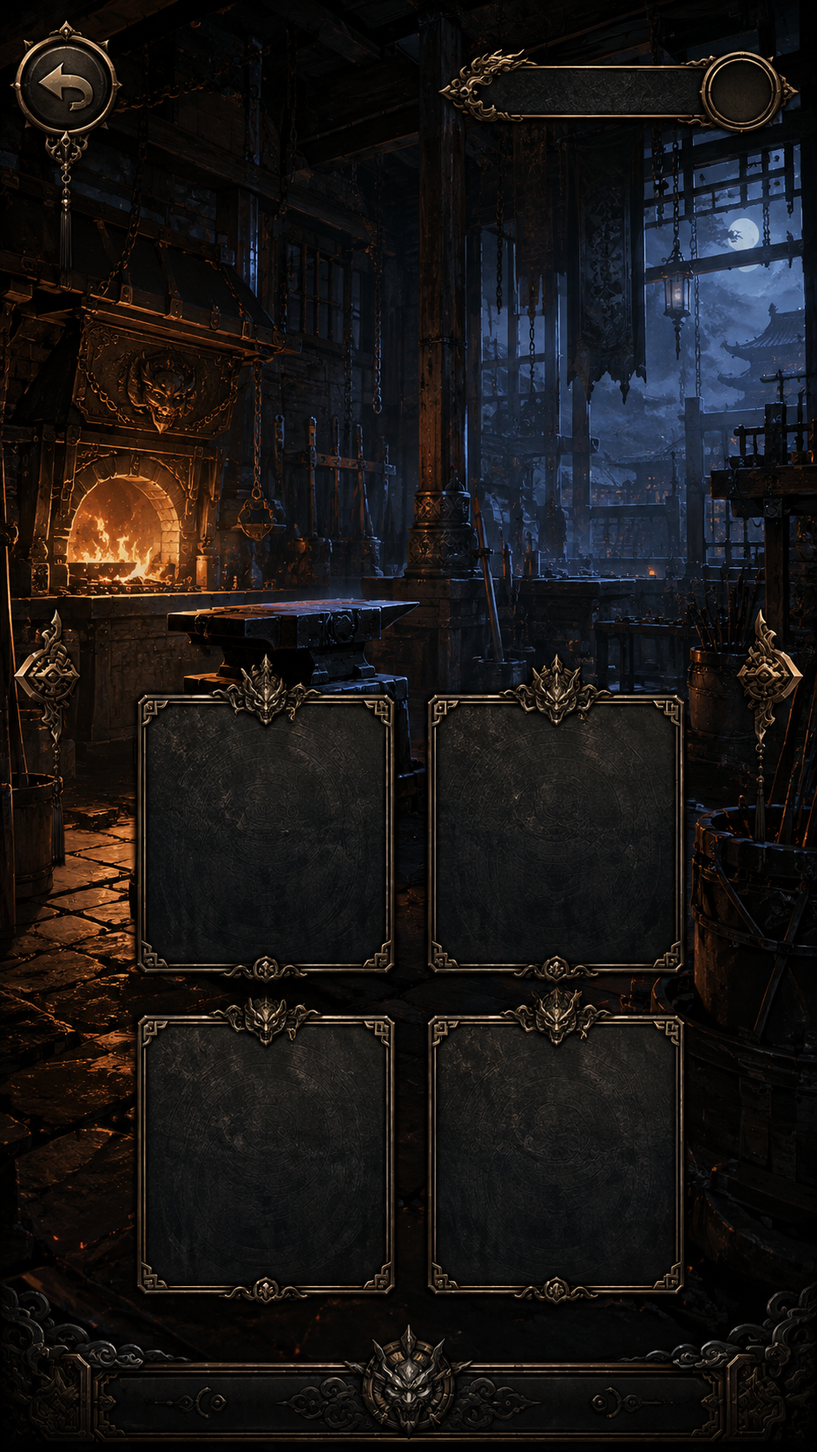
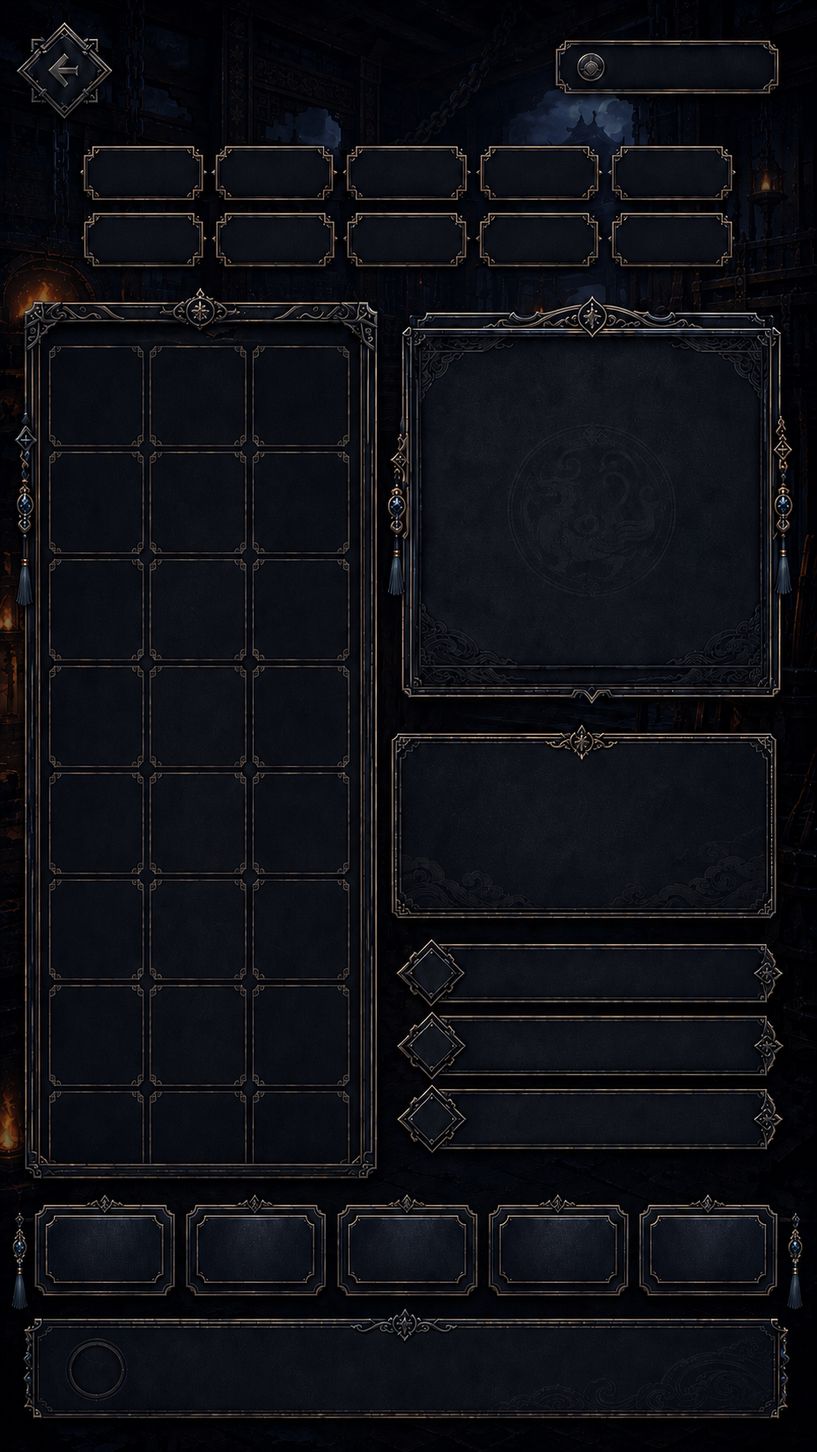
patch

diff --git a/css/forge-mobile-final-v14-11-1.css b/css/forge-mobile-final-v14-11-1.css
@@ -477,3 +477,49 @@
 #forgeDetail[data-forge-mode="transcend"] #forgeTranscendPanel button{min-height:36px!important;font-size:clamp(8px,2.1vw,11px)!important}
 #forgeDetail[data-forge-mode="transcend"] .transcend-choice{display:grid!important;gap:6px!important}
 #forgeDetail[data-forge-mode="transcend"] .transcend-choice button{padding:7px!important;text-align:left!important}.transcend-choice small{display:block!important;font-size:.82em!important;white-space:normal!important}
+
+
+/* v14.16.6 — 5-button weapon actions aligned to updated main asset + dedicated transcend screen asset */
+#forge .forge-weapon-actions{position:absolute!important;left:3.9%!important;right:3.9%!important;top:81.55%!important;height:6.55%!important;display:grid!important;grid-template-columns:repeat(5,minmax(0,1fr))!important;gap:1.65%!important;z-index:13!important}
+#forge .forge-weapon-actions button{width:100%!important;height:100%!important;padding:0!important;border:0!important;background:transparent!important;color:#e8ddca!important;font-size:clamp(9px,2.45vw,12px)!important;font-weight:900!important;text-shadow:0 2px 4px #000!important;white-space:nowrap!important;overflow:hidden!important;text-overflow:ellipsis!important}
+
+#forgeDetail[data-forge-mode="transcend"]>.panel{width:min(94vw,66.67dvh,640px)!important;aspect-ratio:2/3!important;background-image:url('../assets/ui/forge-mobile-final/transcend.png')!important}
+#forgeDetail[data-forge-mode="transcend"] .forge-detail-title{position:absolute!important;left:17%!important;right:17%!important;top:4.8%!important;height:5.8%!important;display:flex!important;flex-direction:column!important;align-items:center!important;justify-content:center!important;gap:2px!important;padding:0!important;text-align:center!important;z-index:21!important}
+#forgeDetail[data-forge-mode="transcend"] .forge-detail-title strong{font-size:clamp(9px,2.35vw,12px)!important;max-width:100%!important;white-space:nowrap!important;overflow:hidden!important;text-overflow:ellipsis!important}
+#forgeDetail[data-forge-mode="transcend"] .forge-detail-title span{font-size:clamp(7px,1.7vw,9px)!important;color:#cdbd9d!important;max-width:100%!important;white-space:nowrap!important;overflow:hidden!important;text-overflow:ellipsis!important}
+#forgeDetail[data-forge-mode="transcend"] #forgeTranscendPanel{position:absolute!important;inset:0!important;z-index:20!important;padding:0!important;margin:0!important;background:transparent!important;border:0!important;overflow:hidden!important;display:block!important}
+#forgeDetail[data-forge-mode="transcend"] #forgeTranscendPanel .transcend-weapon-art{position:absolute!important;left:34.5%!important;right:34.5%!important;top:14.7%!important;height:18.7%!important;display:flex!important;align-items:center!important;justify-content:center!important;z-index:22!important}
+#forgeDetail[data-forge-mode="transcend"] #forgeTranscendPanel .transcend-weapon-art img{max-width:92%!important;max-height:92%!important;object-fit:contain!important;filter:drop-shadow(0 6px 10px rgba(0,0,0,.75))!important}
+#forgeDetail[data-forge-mode="transcend"] #forgeTranscendPanel .transcend-weapon-copy{position:absolute!important;left:17%!important;right:17%!important;top:35.3%!important;height:5.4%!important;display:flex!important;flex-direction:column!important;align-items:center!important;justify-content:center!important;gap:2px!important;text-align:center!important;z-index:22!important}
+#forgeDetail[data-forge-mode="transcend"] #forgeTranscendPanel .transcend-weapon-copy b{font-size:clamp(8px,2.05vw,11px)!important;max-width:100%!important;white-space:nowrap!important;overflow:hidden!important;text-overflow:ellipsis!important}
+#forgeDetail[data-forge-mode="transcend"] #forgeTranscendPanel .transcend-weapon-copy small{font-size:clamp(7px,1.7vw,8px)!important;color:#cabd9e!important;max-width:100%!important;white-space:nowrap!important;overflow:hidden!important;text-overflow:ellipsis!important}
+#forgeDetail[data-forge-mode="transcend"] #forgeTranscendPanel .potential-grade{position:absolute!important;left:18%!important;right:18%!important;top:41.3%!important;height:2.6%!important;display:flex!important;align-items:center!important;justify-content:center!important;margin:0!important;background:transparent!important;border:0!important;font-size:clamp(8px,2vw,10px)!important;font-weight:900!important;color:#e9ddc2!important;white-space:nowrap!important}
+#forgeDetail[data-forge-mode="transcend"] #forgeTranscendPanel .forge-rate-card{position:absolute!important;left:7.8%!important;right:7.8%!important;top:44.7%!important;height:11.6%!important;display:grid!important;grid-template-columns:repeat(3,1fr)!important;gap:5.2%!important}
+#forgeDetail[data-forge-mode="transcend"] #forgeTranscendPanel .forge-rate-card>div{display:flex!important;flex-direction:column!important;align-items:center!important;justify-content:center!important;padding:0!important;background:transparent!important;border:0!important}
+#forgeDetail[data-forge-mode="transcend"] #forgeTranscendPanel .forge-rate-card b{font-size:clamp(12px,3vw,16px)!important;color:#eef6ff!important;line-height:1!important}
+#forgeDetail[data-forge-mode="transcend"] #forgeTranscendPanel .forge-rate-card small{font-size:clamp(7px,1.7vw,9px)!important;color:#c5b89b!important;line-height:1.1!important;text-align:center!important}
+#forgeDetail[data-forge-mode="transcend"] #forgeTranscendPanel .transcend-desc{position:absolute!important;left:11.2%!important;right:11.2%!important;top:57.3%!important;height:6.3%!important;margin:0!important;display:flex!important;align-items:center!important;justify-content:center!important;text-align:center!important;color:#d1c4ad!important;font-size:clamp(6px,1.55vw,8px)!important;line-height:1.35!important}
+#forgeDetail[data-forge-mode="transcend"] #forgeTranscendPanel .ore-mileage-balance{position:absolute!important;left:18%!important;right:18%!important;top:64.6%!important;height:3.0%!important;display:flex!important;align-items:center!important;justify-content:center!important;color:#d8c8ab!important;font-size:clamp(8px,1.95vw,10px)!important;background:transparent!important;border:0!important}
+#forgeDetail[data-forge-mode="transcend"] #forgeTranscendPanel .ore-mileage-balance b{color:#f3deb0!important}
+#forgeDetail[data-forge-mode="transcend"] #forgeTranscendPanel .unlock-banner,#forgeDetail[data-forge-mode="transcend"] #forgeTranscendPanel .transcend-choice{position:absolute!important;left:7.8%!important;right:7.8%!important;top:68.4%!important;height:14.4%!important;padding:0!important;margin:0!important;background:transparent!important;border:0!important;display:grid!important;align-content:start!important;gap:4.5%!important;overflow:hidden!important}
+#forgeDetail[data-forge-mode="transcend"] #forgeTranscendPanel .unlock-banner{align-content:center!important;text-align:center!important;color:#e9dcc1!important}
+#forgeDetail[data-forge-mode="transcend"] #forgeTranscendPanel .unlock-banner b{display:block!important;font-size:clamp(9px,2.1vw,11px)!important;margin-bottom:4px!important}
+#forgeDetail[data-forge-mode="transcend"] #forgeTranscendPanel .unlock-banner small{display:block!important;font-size:clamp(7px,1.7vw,8.5px)!important;line-height:1.35!important;color:#c8ba9e!important}
+#forgeDetail[data-forge-mode="transcend"] #forgeTranscendPanel .unlock-banner.pending b{color:#d6c9ae!important}
+#forgeDetail[data-forge-mode="transcend"] #forgeTranscendPanel .transcend-choice{grid-template-columns:1fr 1fr!important;grid-auto-rows:minmax(0,1fr)!important}
+#forgeDetail[data-forge-mode="transcend"] #forgeTranscendPanel .transcend-choice .desc{grid-column:1/-1!important;margin:0!important;display:flex!important;align-items:center!important;justify-content:center!important;text-align:center!important;color:#cdbfa4!important;font-size:clamp(6px,1.55vw,8px)!important;line-height:1.25!important}
+#forgeDetail[data-forge-mode="transcend"] #forgeTranscendPanel .transcend-choice button{padding:6% 8%!important;text-align:left!important;background:rgba(6,10,18,.16)!important;border:0!important;color:#e7dcc6!important;display:flex!important;flex-direction:column!important;align-items:flex-start!important;justify-content:center!important;gap:4px!important;overflow:hidden!important}
+#forgeDetail[data-forge-mode="transcend"] #forgeTranscendPanel .transcend-choice button b{font-size:clamp(8px,1.95vw,10px)!important;line-height:1.1!important}
+#forgeDetail[data-forge-mode="transcend"] #forgeTranscendPanel .transcend-choice button small{display:block!important;font-size:clamp(6px,1.5vw,7.5px)!important;line-height:1.22!important;color:#cabda1!important;white-space:normal!important}
+#forgeDetail[data-forge-mode="transcend"] #forgeTranscendPanel #transcendExecute{position:absolute!important;left:18%!important;right:18%!important;bottom:8.2%!important;height:6.5%!important;padding:0!important;border:0!important;background:transparent!important;color:#f4deb0!important;font-size:clamp(12px,3vw,16px)!important;font-weight:900!important;text-shadow:0 2px 4px #000!important;box-shadow:none!important}
+#forgeDetail[data-forge-mode="transcend"] #forgeTranscendPanel #transcendExecute:disabled{opacity:.45!important}
+#forgeDetail[data-forge-mode="transcend"] #forgeTranscendPanel #transcendMessage{position:absolute!important;left:12%!important;right:12%!important;bottom:2.7%!important;height:3.7%!important;margin:0!important;display:flex!important;align-items:center!important;justify-content:center!important;text-align:center!important;background:transparent!important;border:0!important;color:#c9baa0!important;font-size:clamp(6px,1.5vw,8px)!important;line-height:1.15!important}
+
+/* v14.16.7 — transcend option state cards */
+#forgeDetail[data-forge-mode="transcend"] #forgeTranscendPanel .transcend-option-card{padding:6% 8%!important;text-align:left!important;background:rgba(6,10,18,.16)!important;border:0!important;color:#e7dcc6!important;display:flex!important;flex-direction:column!important;align-items:flex-start!important;justify-content:center!important;gap:4px!important;overflow:hidden!important;min-height:0!important}
+#forgeDetail[data-forge-mode="transcend"] #forgeTranscendPanel .transcend-option-card b{font-size:clamp(8px,1.95vw,10px)!important;line-height:1.1!important}
+#forgeDetail[data-forge-mode="transcend"] #forgeTranscendPanel .transcend-option-card small{display:block!important;font-size:clamp(6px,1.5vw,7.5px)!important;line-height:1.22!important;color:#cabda1!important;white-space:normal!important}
+#forgeDetail[data-forge-mode="transcend"] #forgeTranscendPanel .transcend-option-card em{display:block!important;margin-top:2px!important;font-style:normal!important;font-size:clamp(6px,1.5vw,7.5px)!important;line-height:1.15!important;color:#f0d9a7!important}
+#forgeDetail[data-forge-mode="transcend"] #forgeTranscendPanel .transcend-option-card.is-selected{background:rgba(38,30,11,.30)!important;box-shadow:inset 0 0 0 1px rgba(244,222,176,.14)!important}
+#forgeDetail[data-forge-mode="transcend"] #forgeTranscendPanel .transcend-option-card.is-locked,#forgeDetail[data-forge-mode="transcend"] #forgeTranscendPanel .transcend-option-card.is-preview{opacity:.78!important}
+#forgeDetail[data-forge-mode="transcend"] #forgeTranscendPanel .transcend-option-card.is-pick{cursor:pointer!important}

diff --git a/index.html b/index.html
@@ -11,16 +11,16 @@
 <meta name="referrer" content="no-referrer"/>
 <link href="manifest.webmanifest" rel="manifest"/>
 <link href="assets/icons/icon-192.png" rel="apple-touch-icon"/>
-<title>천하생존록 · v14.16.5</title>
+<title>천하생존록 · v14.16.8</title>
 
-<link href="css/base.css" rel="stylesheet"/><link href="css/systems.css" rel="stylesheet"/><link href="css/remaster.css" rel="stylesheet"/><link href="css/mobile.css" rel="stylesheet"/><link href="css/animation-pass.css" rel="stylesheet"/><link href="css/awakening-cutscene.css" rel="stylesheet"/><link href="css/forge-v13.css?v=14162" rel="stylesheet"/><link href="css/v14-improvements.css?v=14162" rel="stylesheet"/><link href="css/audio-mixer-v14-3-3.css" rel="stylesheet"/><link href="css/forge-mobile-final-v14-11-1.css?v=14162" rel="stylesheet"/><link href="css/forge-mobile-v14-14-1-hotfix.css?v=14162" rel="stylesheet"/><link href="css/forge-mobile-v14-15-3-device-fix.css?v=14162" rel="stylesheet"/><link href="css/solo-raid-v14-16.css?v=14165" rel="stylesheet"/><meta content="v14.16.5-performance-sword-balance" name="game-build"/><!-- legacy audit compatibility: v14.12.8-black-compare-align --></head>
+<link href="css/base.css" rel="stylesheet"/><link href="css/systems.css" rel="stylesheet"/><link href="css/remaster.css" rel="stylesheet"/><link href="css/mobile.css" rel="stylesheet"/><link href="css/animation-pass.css" rel="stylesheet"/><link href="css/awakening-cutscene.css" rel="stylesheet"/><link href="css/forge-v13.css?v=14168" rel="stylesheet"/><link href="css/v14-improvements.css?v=14168" rel="stylesheet"/><link href="css/audio-mixer-v14-3-3.css" rel="stylesheet"/><link href="css/forge-mobile-final-v14-11-1.css?v=14168" rel="stylesheet"/><link href="css/forge-mobile-v14-14-1-hotfix.css?v=14168" rel="stylesheet"/><link href="css/forge-mobile-v14-15-3-device-fix.css?v=14168" rel="stylesheet"/><link href="css/solo-raid-v14-16.css?v=14168" rel="stylesheet"/><link href="css/boss-hud-v14-16-3.css?v=14168" rel="stylesheet"/><meta content="v14.16.8-transcend-final" name="game-build"/><!-- legacy audit compatibility: v14.12.8-black-compare-align --></head>
 <body>
 <div id="assetLoader" role="status" aria-live="polite"><div class="asset-loader-card"><b>강호를 불러오는 중</b><div id="assetLoaderText" class="settings-note">필수 에셋 확인 중…</div><div class="asset-loader-bar"><span id="assetLoaderFill"></span></div></div></div>
 <div id="systemToast" role="status" aria-live="polite"></div>
 <div id="hiddenProgressHud" aria-live="polite"></div><div id="skillLearnToast" aria-live="polite"><span>신규 무공 습득</span><b>무공</b></div>
 <div id="raidHud" aria-live="polite"><div class="raid-hud-head"><b id="raidStageText">1관문</b><span id="raidTimerText">01:30</span></div><strong id="raidBossName">도마종 단주 팽단휘</strong><div id="raidGimmickText">기믹 준비</div><div id="raidPartBars"></div></div>
 <canvas aria-label="무협 서바이버 게임 화면" id="game"></canvas>
-<div id="hud"><div class="top"><div class="status status-with-portrait"><div class="combat-portrait" id="combatPortraitWrap" aria-label="현재 협객 초상화"><img id="combatPortrait" alt="현재 협객 초상화"/><span id="combatPortraitName">협객</span></div><div class="status-data"><div class="hline"><b class="weapon-label" id="weaponHud">무기 미선택</b><b id="levelText">경지 1</b><span id="timeText">00:00</span><span id="killText">격파 0</span></div><div class="bar"><span id="hpFill"></span></div><div style="height:5px"></div><div class="bar"><span id="xpFill"></span></div><div class="hline" style="margin:5px 0 0"><span id="goldHud">금자 0</span><span id="oreHud">광석 0</span><span id="dodgeHud">보법 준비</span></div><div id="bossWrap" aria-live="polite"><div class="boss-hud-art"><div class="boss-main-track"><span id="bossFill"></span></div><div class="boss-sub-track"><span id="bossSubFill"></span></div><div class="boss-portrait-slot"><img id="bossFramePortrait" src="assets/enemies/boss.png" alt="현재 보스 초상화"/></div><div class="boss-nameplate"><b id="bossTitle">혈마</b><span id="bossStageLabel">최종 보스</span></div><span id="bossText"></span><span id="bossSubText"></span><div id="bossPhasePips"></div><div class="boss-hud-frame" aria-hidden="true"></div></div></div></div></div><div class="hbuttons"><button aria-label="게임 속도 1배" class="iconbtn speed-btn" id="speedBtn" title="게임 속도 1배" type="button">1×</button><button aria-label="소리 음소거" aria-pressed="false" class="iconbtn" id="soundBtn" type="button">🔊</button><button aria-label="게임 음량 조절" aria-expanded="false" aria-controls="audioQuickPanel" class="iconbtn" id="audioPanelBtn" type="button">🎚</button><button aria-label="일시정지" class="iconbtn" id="pauseBtn" type="button">Ⅱ</button></div></div><div id="message"></div></div>
+<div id="hud"><div class="top"><div class="status status-with-portrait"><div class="combat-portrait" id="combatPortraitWrap" aria-label="현재 협객 초상화"><img id="combatPortrait" alt="현재 협객 초상화"/><span id="combatPortraitName">협객</span></div><div class="status-data"><div class="hline"><b class="weapon-label" id="weaponHud">무기 미선택</b><b id="levelText">경지 1</b><span id="timeText">00:00</span><span id="killText">격파 0</span></div><div class="bar"><span id="hpFill"></span></div><div style="height:5px"></div><div class="bar"><span id="xpFill"></span></div><div class="hline" style="margin:5px 0 0"><span id="goldHud">금자 0</span><span id="oreHud">광석 0</span><span id="dodgeHud">보법 준비</span></div><div id="bossWrap" aria-live="polite"><div class="boss-hud-art"><div class="boss-main-track"><span id="bossFill"></span></div><div class="boss-sub-track"><span id="bossSubFill"></span></div><div class="boss-portrait-slot"><img id="bossFramePortrait" alt="현재 보스 초상화"/></div><div class="boss-nameplate"><b id="bossTitle">혈마</b><span id="bossStageLabel">최종 보스</span></div><span id="bossText"></span><span id="bossSubText"></span><div id="bossPhasePips"></div><div class="boss-hud-frame" aria-hidden="true"></div></div></div></div></div><div class="hbuttons"><button aria-label="게임 속도 1배" class="iconbtn speed-btn" id="speedBtn" title="게임 속도 1배" type="button">1×</button><button aria-label="소리 음소거" aria-pressed="false" class="iconbtn" id="soundBtn" type="button">🔊</button><button aria-label="게임 음량 조절" aria-expanded="false" aria-controls="audioQuickPanel" class="iconbtn" id="audioPanelBtn" type="button">🎚</button><button aria-label="일시정지" class="iconbtn" id="pauseBtn" type="button">Ⅱ</button></div></div><div id="message"></div></div>
 <aside id="audioQuickPanel" class="audio-quick-panel" aria-hidden="true" aria-label="게임 음량 조절">
 <div class="audio-quick-head"><b>음량 조절</b><button id="audioPanelClose" type="button" aria-label="음량 조절 닫기">×</button></div>
 <label>Master <output id="quickMasterVolumeValue">80%</output><input id="quickMasterVolume" type="range" min="0" max="100" step="1" value="80"/></label>
@@ -93,13 +93,13 @@
 <script defer src="js/data/characters-meta.js"></script>
 <script defer src="js/systems/meta-combat.js"></script>
 <script defer src="js/ui/meta-menus-events.js"></script>
-<script defer src="js/systems/forge-v13.js?v=14162"></script>
+<script defer src="js/systems/forge-v13.js?v=14168"></script>
 <script defer src="js/systems/combat-power-v14-7-7.js"></script>
 <script defer src="js/ui/forge-mobile-final-v14-11-1.js"></script>
 <script defer src="js/core/save-manager.js"></script>
 <script defer src="js/render/animation-controller.js"></script>
 <script defer src="js/render/sprite-remaster-v14-3-18.js"></script>
-<script defer src="js/render/weapon-visuals-v14-4.js?v=14162"></script>
+<script defer src="js/render/weapon-visuals-v14-4.js?v=14168"></script>
 <script defer src="js/audio/audio-manager-v14-3-8.js"></script>
 <script defer src="js/vfx/awakening-cutscene-v14-3-8.js"></script>
 <script defer src="js/systems/content-registry.js"></script>
@@ -114,15 +114,16 @@
 <script defer src="js/boss/blood-demon.js"></script>
 <script defer src="js/vfx/v10.js"></script>
 <script defer src="js/vfx/sprite-vfx-v14-3-8.js"></script>
-<script defer src="js/systems/katana-rework-v15.js?v=14162"></script>
+<script defer src="js/systems/katana-rework-v15.js?v=14168"></script>
 <script defer src="js/ui/advanced-settings-v14-3-3.js"></script>
 <script defer src="js/systems/game-runtime-v14.js"></script>
 <script defer src="js/systems/combat-progression-v14-3-1.js"></script>
 <script defer src="js/systems/abyss-mode-v14-8-7.js"></script>
 <script defer src="js/systems/system-overhaul-v14-10.js"></script>
 <script defer src="js/systems/world-map-v14-15.js"></script>
-<script defer src="js/systems/solo-raid-v14-16.js?v=14165"></script>
-<script defer src="js/systems/weapon-transcend-v14-16-2.js?v=14162"></script>
+<script defer src="js/systems/solo-raid-v14-16.js?v=14168"></script>
+<script defer src="js/systems/weapon-transcend-v14-16-2.js?v=14168"></script>
+<script defer src="js/ui/boss-bar-ui-v14-16-3.js?v=14168"></script>
 <script defer src="js/core/pwa.js"></script>
 <script defer src="js/core/startup.js"></script></body>
 </html>

diff --git a/js/systems/forge-v13.js b/js/systems/forge-v13.js
@@ -470,9 +470,32 @@
 
   function transcendOption(item){return (TRANSCEND_OPTIONS[item?.weapon]||[]).find(x=>x.id===item?.transcendOption)||null}
   function renderTranscendPane(item=selectedItem()){
-    const root=detailOverlay(),box=root.querySelector("#forgeTranscendPanel");if(!box||!item)return;normalizeWeapon(item);const eligible=item.grade==="eternal",lv=item.transcendLevel||0,attempts=item.transcendAttempts||0,eff=Math.round(((TRANSCEND_EFF[lv]||1)-1)*100),opt=transcendOption(item),choices=TRANSCEND_OPTIONS[item.weapon]||[];account.divineStones=Math.max(0,Math.floor(Number(account.divineStones)||0));
-    box.innerHTML=`<div class="potential-grade">무신 초월 · ${lv}/3</div><div class="forge-rate-card"><div><b>${lv}/3</b><small>초월 단계</small></div><div><b>${attempts}/10</b><small>누적 시도</small></div><div><b>+${eff}%</b><small>잠재 효율</small></div></div><p class="desc">영원 등급 무기 전용 · 시도당 무신석 1개 · 기본 성공률 10% · 최대 3초월 · 무기당 총 10회 제한. 10번째까지 0초월이면 첫 초월만 확정된다.</p><div class="ore-mileage-balance">보유 무신석 <b>${account.divineStones.toLocaleString()}</b></div>${opt?`<div class="unlock-banner"><b>초월 옵션 · ${opt.name}</b><br>${opt.desc}</div>`:lv>0?`<div class="transcend-choice"><p class="desc">첫 초월 옵션을 하나 선택하시오. 선택 후 변경할 수 없다.</p>${choices.map(o=>`<button class="secondary" data-transcend-option="${o.id}" type="button"><b>${o.name}</b><small>${o.desc}</small></button>`).join("")}</div>`:""}<button class="primary" id="transcendExecute" type="button" ${!eligible||lv>=3||attempts>=10||account.divineStones<1?"disabled":""}>${!eligible?"영원 등급만 초월 가능":lv>=3?"3초월 완료":attempts>=10?"초월 시도 한도 소진":"초월 시도 · 무신석 1개"}</button><p class="forge-result-message" id="transcendMessage">${eligible?"초월은 강화 단계와 무관하게 시도할 수 있다.":"영원 등급 무기를 선택하시오."}</p>`;
-    box.querySelector("#transcendExecute")?.addEventListener("click",attemptTranscend);box.querySelectorAll("[data-transcend-option]").forEach(b=>b.addEventListener("click",()=>chooseTranscendOption(b.dataset.transcendOption)));
+    const root=detailOverlay(),box=root.querySelector("#forgeTranscendPanel");if(!box||!item)return;
+    normalizeWeapon(item);
+    const eligible=item.grade==="eternal",lv=item.transcendLevel||0,attempts=item.transcendAttempts||0,eff=Math.round(((TRANSCEND_EFF[lv]||1)-1)*100),opt=transcendOption(item),choices=TRANSCEND_OPTIONS[item.weapon]||[];
+    account.divineStones=Math.max(0,Math.floor(Number(account.divineStones)||0));
+    const gd=gradeDefs.find(g=>g.id===item.grade);
+    const cp=window.CombatPowerSystem?CombatPowerSystem.value(item):0;
+    const art=window.WeaponVisuals?WeaponVisuals.asset(item):`assets/weapons/hud/${item.weapon}.png`;
+    const roman=["영","I","II","III"];const successLabel=(lv===0&&attempts>=9)?"확정":"10%";
+    const canTranscend=eligible&&lv<3&&attempts<10&&account.divineStones>=1&&!(lv>0&&!opt);
+    const renderCard=(o,mode)=>{const extra=mode==="selected"?`<em>선택됨 · ${roman[lv]}단계 적용 중</em>`:mode==="locked"?'<em>다른 옵션을 선택하여 잠김</em>':mode==="preview"?'<em>1초월 성공 시 선택 가능</em>':'<em>선택 시 이후 변경 불가</em>';if(mode==="pick")return `<button class="secondary transcend-option-card is-pick" data-transcend-option="${o.id}" type="button"><b>${o.name}</b><small>${o.desc}</small>${extra}</button>`;return `<div class="transcend-option-card ${mode==="selected"?"is-selected":mode==="locked"?"is-locked":"is-preview"}"><b>${o.name}</b><small>${o.desc}</small>${extra}</div>`};
+    let optionBlock='';
+    if(!eligible){
+      optionBlock=`<div class="transcend-choice"><p class="desc">영원 등급 무기만 무신 초월과 초월 옵션을 사용할 수 있다.</p>${choices.map(o=>renderCard(o,'preview')).join('')}</div>`;
+    }else if(lv===0){
+      optionBlock=`<div class="transcend-choice"><p class="desc">1초월 성공 시 아래 두 초월 옵션 중 하나를 선택한다.</p>${choices.map(o=>renderCard(o,'preview')).join('')}</div>`;
+    }else if(!opt){
+      optionBlock=`<div class="transcend-choice"><p class="desc">첫 초월에 성공했다. 초월 옵션 하나를 먼저 선택하시오.</p>${choices.map(o=>renderCard(o,'pick')).join('')}</div>`;
+    }else{
+      optionBlock=`<div class="transcend-choice"><p class="desc">선택한 초월 옵션은 유지되며 초월 단계가 오를수록 함께 강화된다.</p>${choices.map(o=>renderCard(o,o.id===opt.id?'selected':'locked')).join('')}</div>`;
+    }
+    const actionLabel=!eligible?"영원 등급만 초월 가능":lv>=3?"3초월 완료":attempts>=10?"초월 시도 한도 소진":lv>0&&!opt?"초월 옵션을 먼저 선택":(lv===0&&attempts>=9?"확정 1초월 시도 · 무신석 1개":"초월 시도 · 무신석 1개");
+    const helper=!eligible?"영원 등급 무기를 선택하시오.":lv>0&&!opt?"초월 옵션을 선택해야 다음 초월 시도가 가능하다.":opt?`현재 초월 옵션 · ${opt.name} / 잠재 효율 +${eff}% 적용 중`:`현재 잠재 효율 보너스 +${eff}%`;
+    box.innerHTML=`<div class="transcend-weapon-art"><img src="${art}" alt="${item.name}"></div><div class="transcend-weapon-copy"><b class="rarity-${item.grade}">${gd?.name||item.grade} ${item.name} +${item.level||0}</b><small>${weaponDefs[item.weapon]?.name||item.weapon} · 전투력 ${cp&&window.CombatPowerSystem?CombatPowerSystem.format(cp):"-"}</small></div><div class="potential-grade">무신 초월 · ${roman[lv]} 단계</div><div class="forge-rate-card"><div><b>${lv}/3</b><small>초월 단계</small></div><div><b>${attempts}/10</b><small>누적 시도</small></div><div><b>${successLabel}</b><small>성공률</small></div></div><p class="desc transcend-desc">잠재 효율 보너스 +${eff}% · 시도당 무신석 1개 · 기본 10% · 첫 10회 모두 실패 시 1초월 보장 · 최대 3초월</p><div class="ore-mileage-balance">보유 무신석 <b>${account.divineStones.toLocaleString()}</b></div>${optionBlock}<button class="primary" id="transcendExecute" type="button" ${!canTranscend?"disabled":""}>${actionLabel}</button><p class="forge-result-message" id="transcendMessage">${helper}</p>`;
+    const artBox=box.querySelector(".transcend-weapon-art");if(artBox&&window.WeaponVisuals)WeaponVisuals.decorate(artBox,item,item.weapon);
+    box.querySelector("#transcendExecute")?.addEventListener("click",attemptTranscend);
+    box.querySelectorAll("[data-transcend-option]").forEach(b=>b.addEventListener("click",()=>chooseTranscendOption(b.dataset.transcendOption)));
   }
   function attemptTranscend(){const item=selectedItem();if(!item)return;normalizeWeapon(item);if(item.grade!=="eternal"||item.transcendLevel>=3||item.transcendAttempts>=10)return;account.divineStones=Math.max(0,Math.floor(Number(account.divineStones)||0));if(account.divineStones<1){showMessage("무신석이 필요하다",1.2);return}account.divineStones--;item.transcendAttempts++;const guaranteed=item.transcendLevel===0&&item.transcendAttempts===10,success=guaranteed||Math.random()<.10;if(success){item.transcendLevel++;showMessage(`초월 성공 · ${item.transcendLevel}초월`,1.4);GameAudio.playUI("forge-success")}else{showMessage(`초월 실패 · ${item.transcendAttempts}/10`,1.2);GameAudio.playUI("forge-failure")}saveAccountData();renderWeaponInventory();renderDetail()}
   function chooseTranscendOption(id){const item=selectedItem();if(!item||item.transcendLevel<1||item.transcendOption)return;const opt=(TRANSCEND_OPTIONS[item.weapon]||[]).find(x=>x.id===id);if(!opt)return;item.transcendOption=opt.id;saveAccountData();renderWeaponInventory();renderDetail();showMessage(`초월 옵션 · ${opt.name}`,1.4);GameAudio.playUI("potential-accept")}

diff --git a/service-worker.js b/service-worker.js
@@ -1,8 +1,8 @@
 "use strict";
 
-/** v14.16.5: 타격 성능 최적화 · 검 밸런스 · 모바일 보스 HUD. */
+/** v14.16.8: 무신 초월 전용 에셋 완성 · 보구 대비 메인 UI 확장. */
 const CACHE_PREFIX="cheonha-";
-const CACHE="cheonha-v14-16-5-performance-sword";
+const CACHE="cheonha-v14-16-8-transcend-final";
 // legacy audit compatibility token: cheonha-v14-12-8-black-compare-align
 const APP_SHELL=[
   "./","index.html","manifest.webmanifest","BUILD.txt",
@@ -16,7 +16,7 @@ const APP_SHELL=[
   "js/skills/sword.js","js/skills/spear.js","js/skills/bow.js","js/skills/poison.js","js/skills/tao.js","js/skills/saber.js","js/skills/katana.js","js/skills/fist.js","js/boss/blood-demon.js",
   "assets/icons/icon-192.png","assets/icons/icon-512.png",
   "assets/map/data/map-v1.json","assets/map/terrain/common-ground.webp","assets/map/terrain/center-training-ground.webp","assets/map/terrain/north-bamboo-grove.webp","assets/map/terrain/east-ruined-gate.webp","assets/map/terrain/south-moon-pond.webp","assets/map/terrain/west-cliff-road.webp",
-  "assets/raid/map/cheonma-altar.webp","assets/raid/map/cheonma-altar-mobile.webp","assets/raid/bosses/peng-danhui.png","assets/raid/bosses/namgung-hyeok.png","assets/raid/bosses/ma-heojin.png","assets/raid/bosses/cheondan.png","assets/raid/bosses/cheonma-throne.png","assets/raid/bosses/cheonma-left-maqi-arm.png","assets/raid/bosses/cheonma-right-maqi-arm.png","assets/raid/bosses/cheonma-demon-dragon.png","assets/ui/bossbar/raid-boss-frame-compact.png"
+  "assets/raid/map/cheonma-altar.webp","assets/raid/map/cheonma-altar-mobile.webp","assets/raid/bosses/peng-danhui.png","assets/raid/bosses/namgung-hyeok.png","assets/raid/bosses/ma-heojin.png","assets/raid/bosses/cheondan.png","assets/raid/bosses/cheonma-throne.png","assets/raid/bosses/cheonma-left-maqi-arm.png","assets/raid/bosses/cheonma-right-maqi-arm.png","assets/raid/bosses/cheonma-demon-dragon.png","assets/ui/bossbar/raid-boss-frame-compact.png","assets/ui/forge-mobile-final/transcend.png"
 ];
 
 async function cacheAppShell(){

diff --git a/DEPLOY-WORKING-COPY-v14.16.8.md b/DEPLOY-WORKING-COPY-v14.16.8.md
@@ -1,0 +1,4 @@
+# v14.16.8 Working Copy 배포
+
+- 기준: v14.16.7-baogu-ui
+- 포함: 무신 초월 전용 UI 에셋 최종 적용, 초월 성공률/누적 시도/옵션 선택·잠금 상태 반영, 보구 시스템 대비 상단 10칸 대장간 메인 UI 유지, 서비스워커 캐시 버전 갱신.
